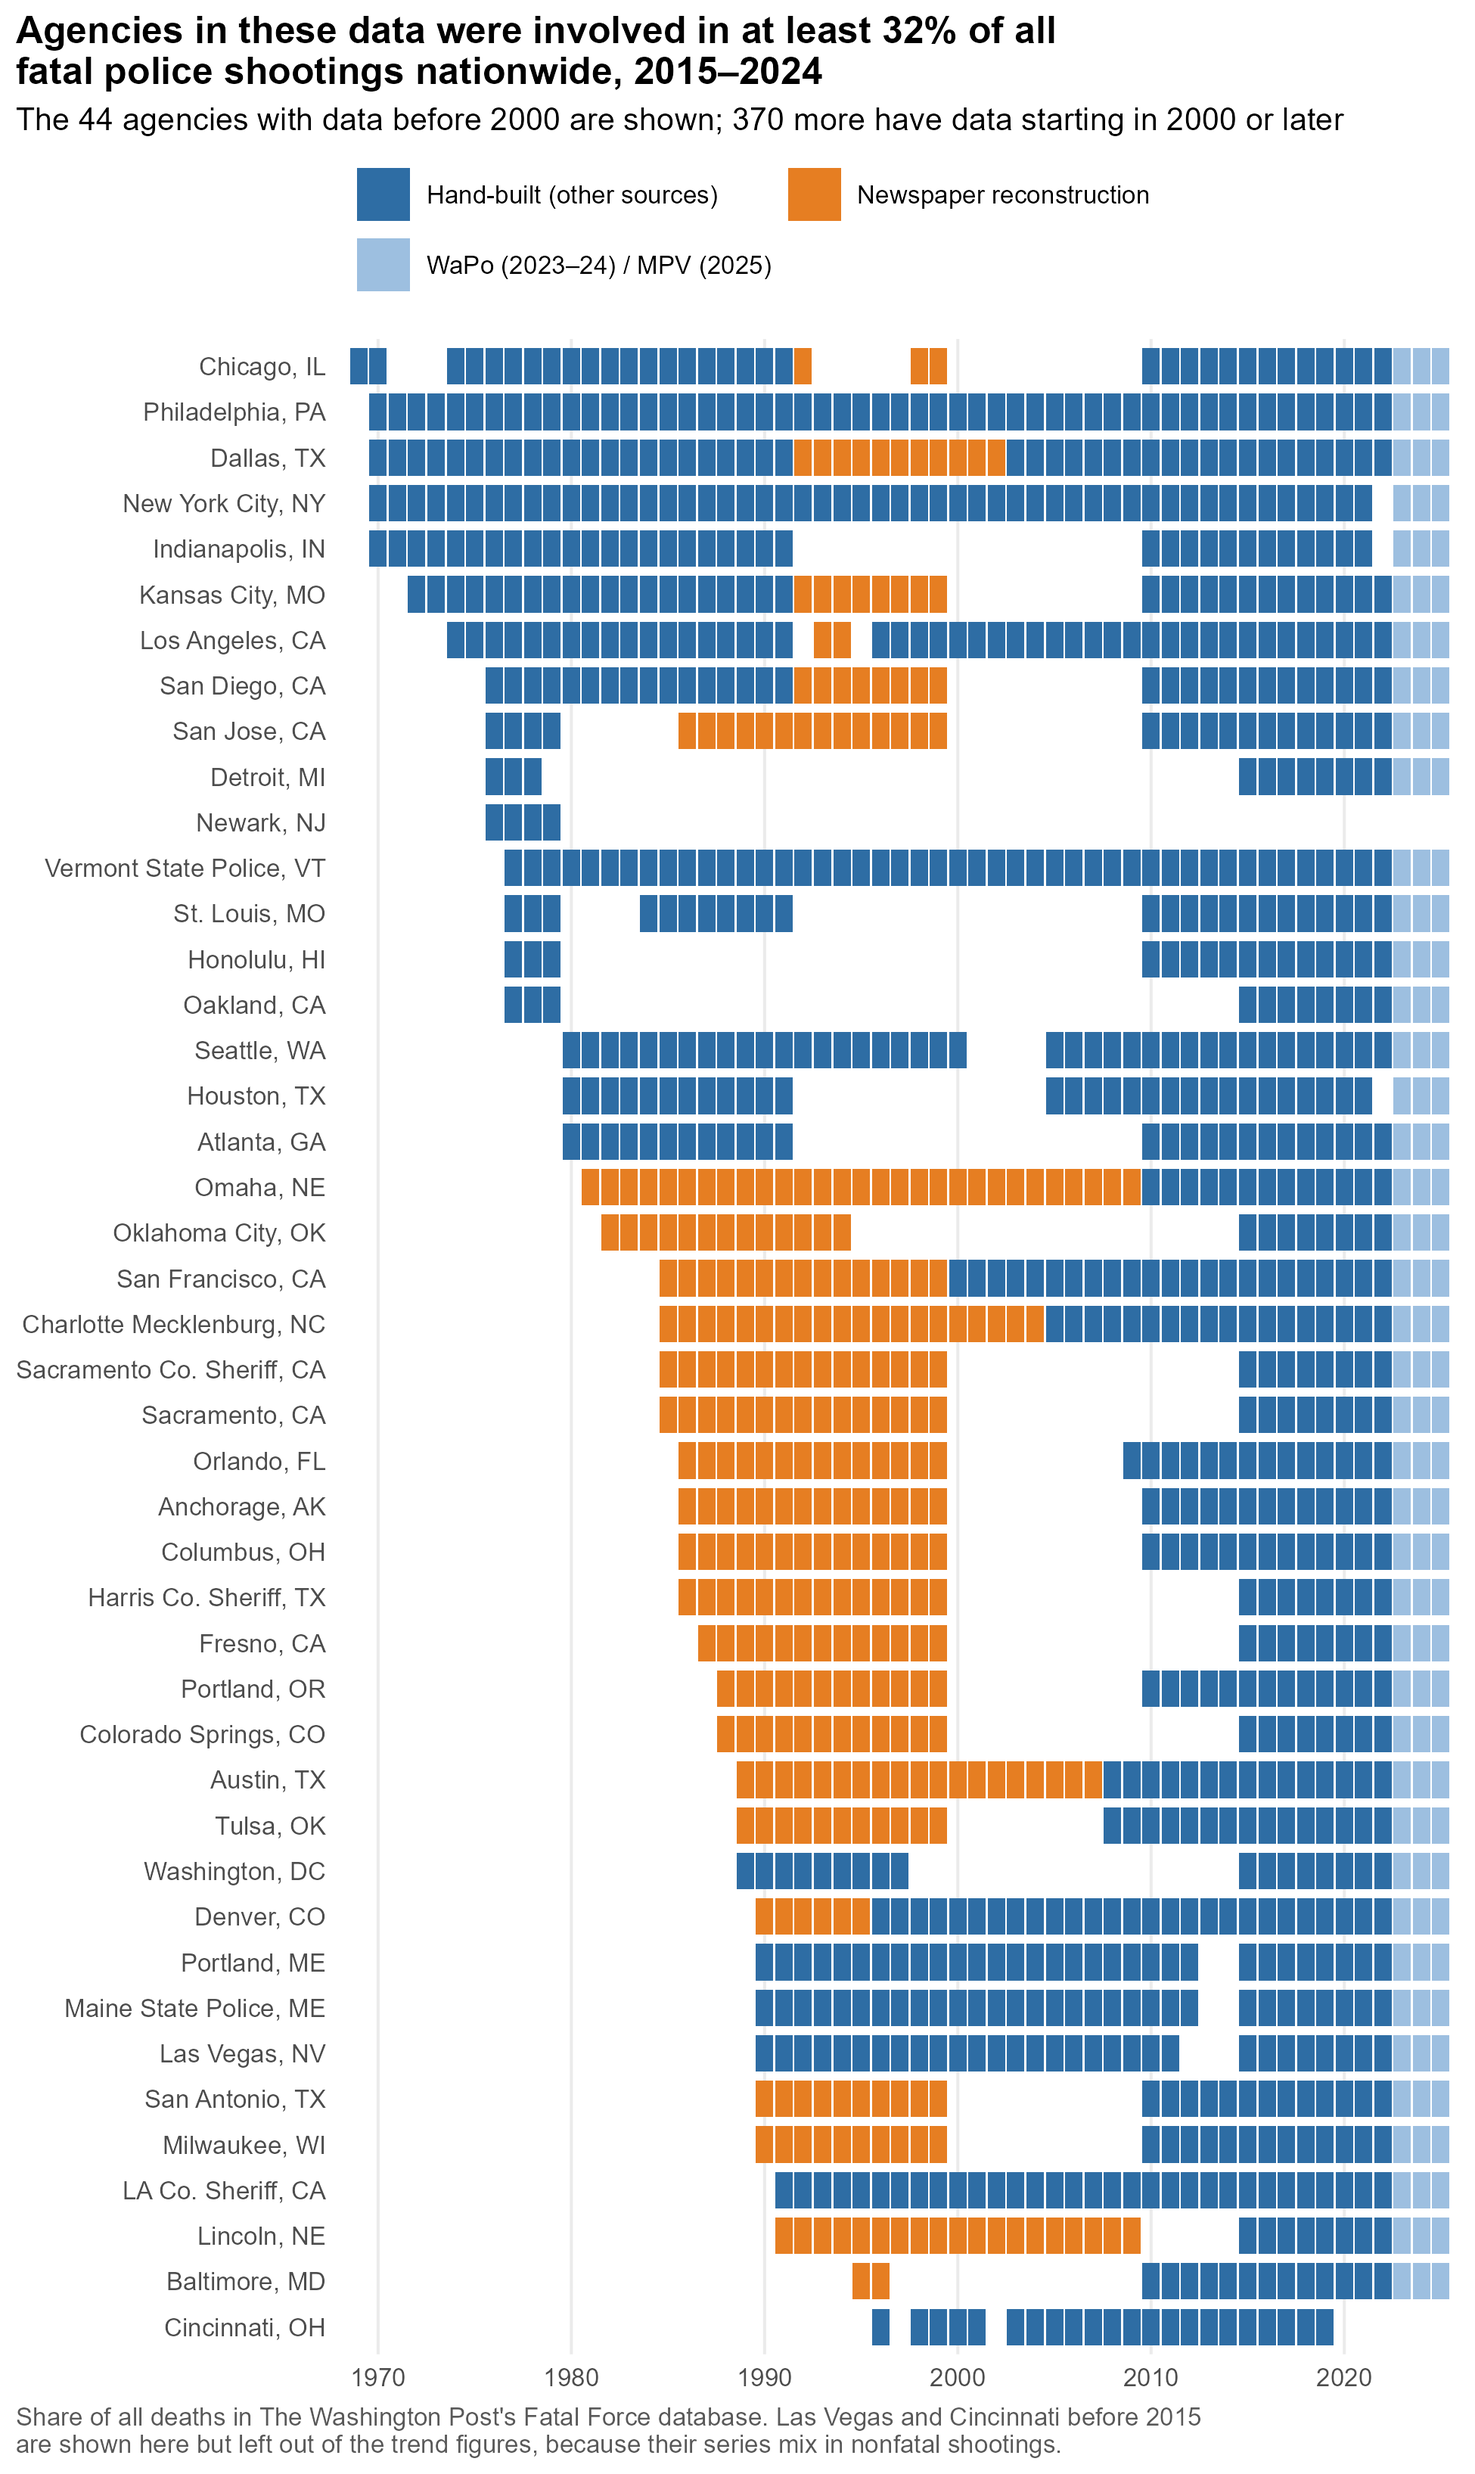
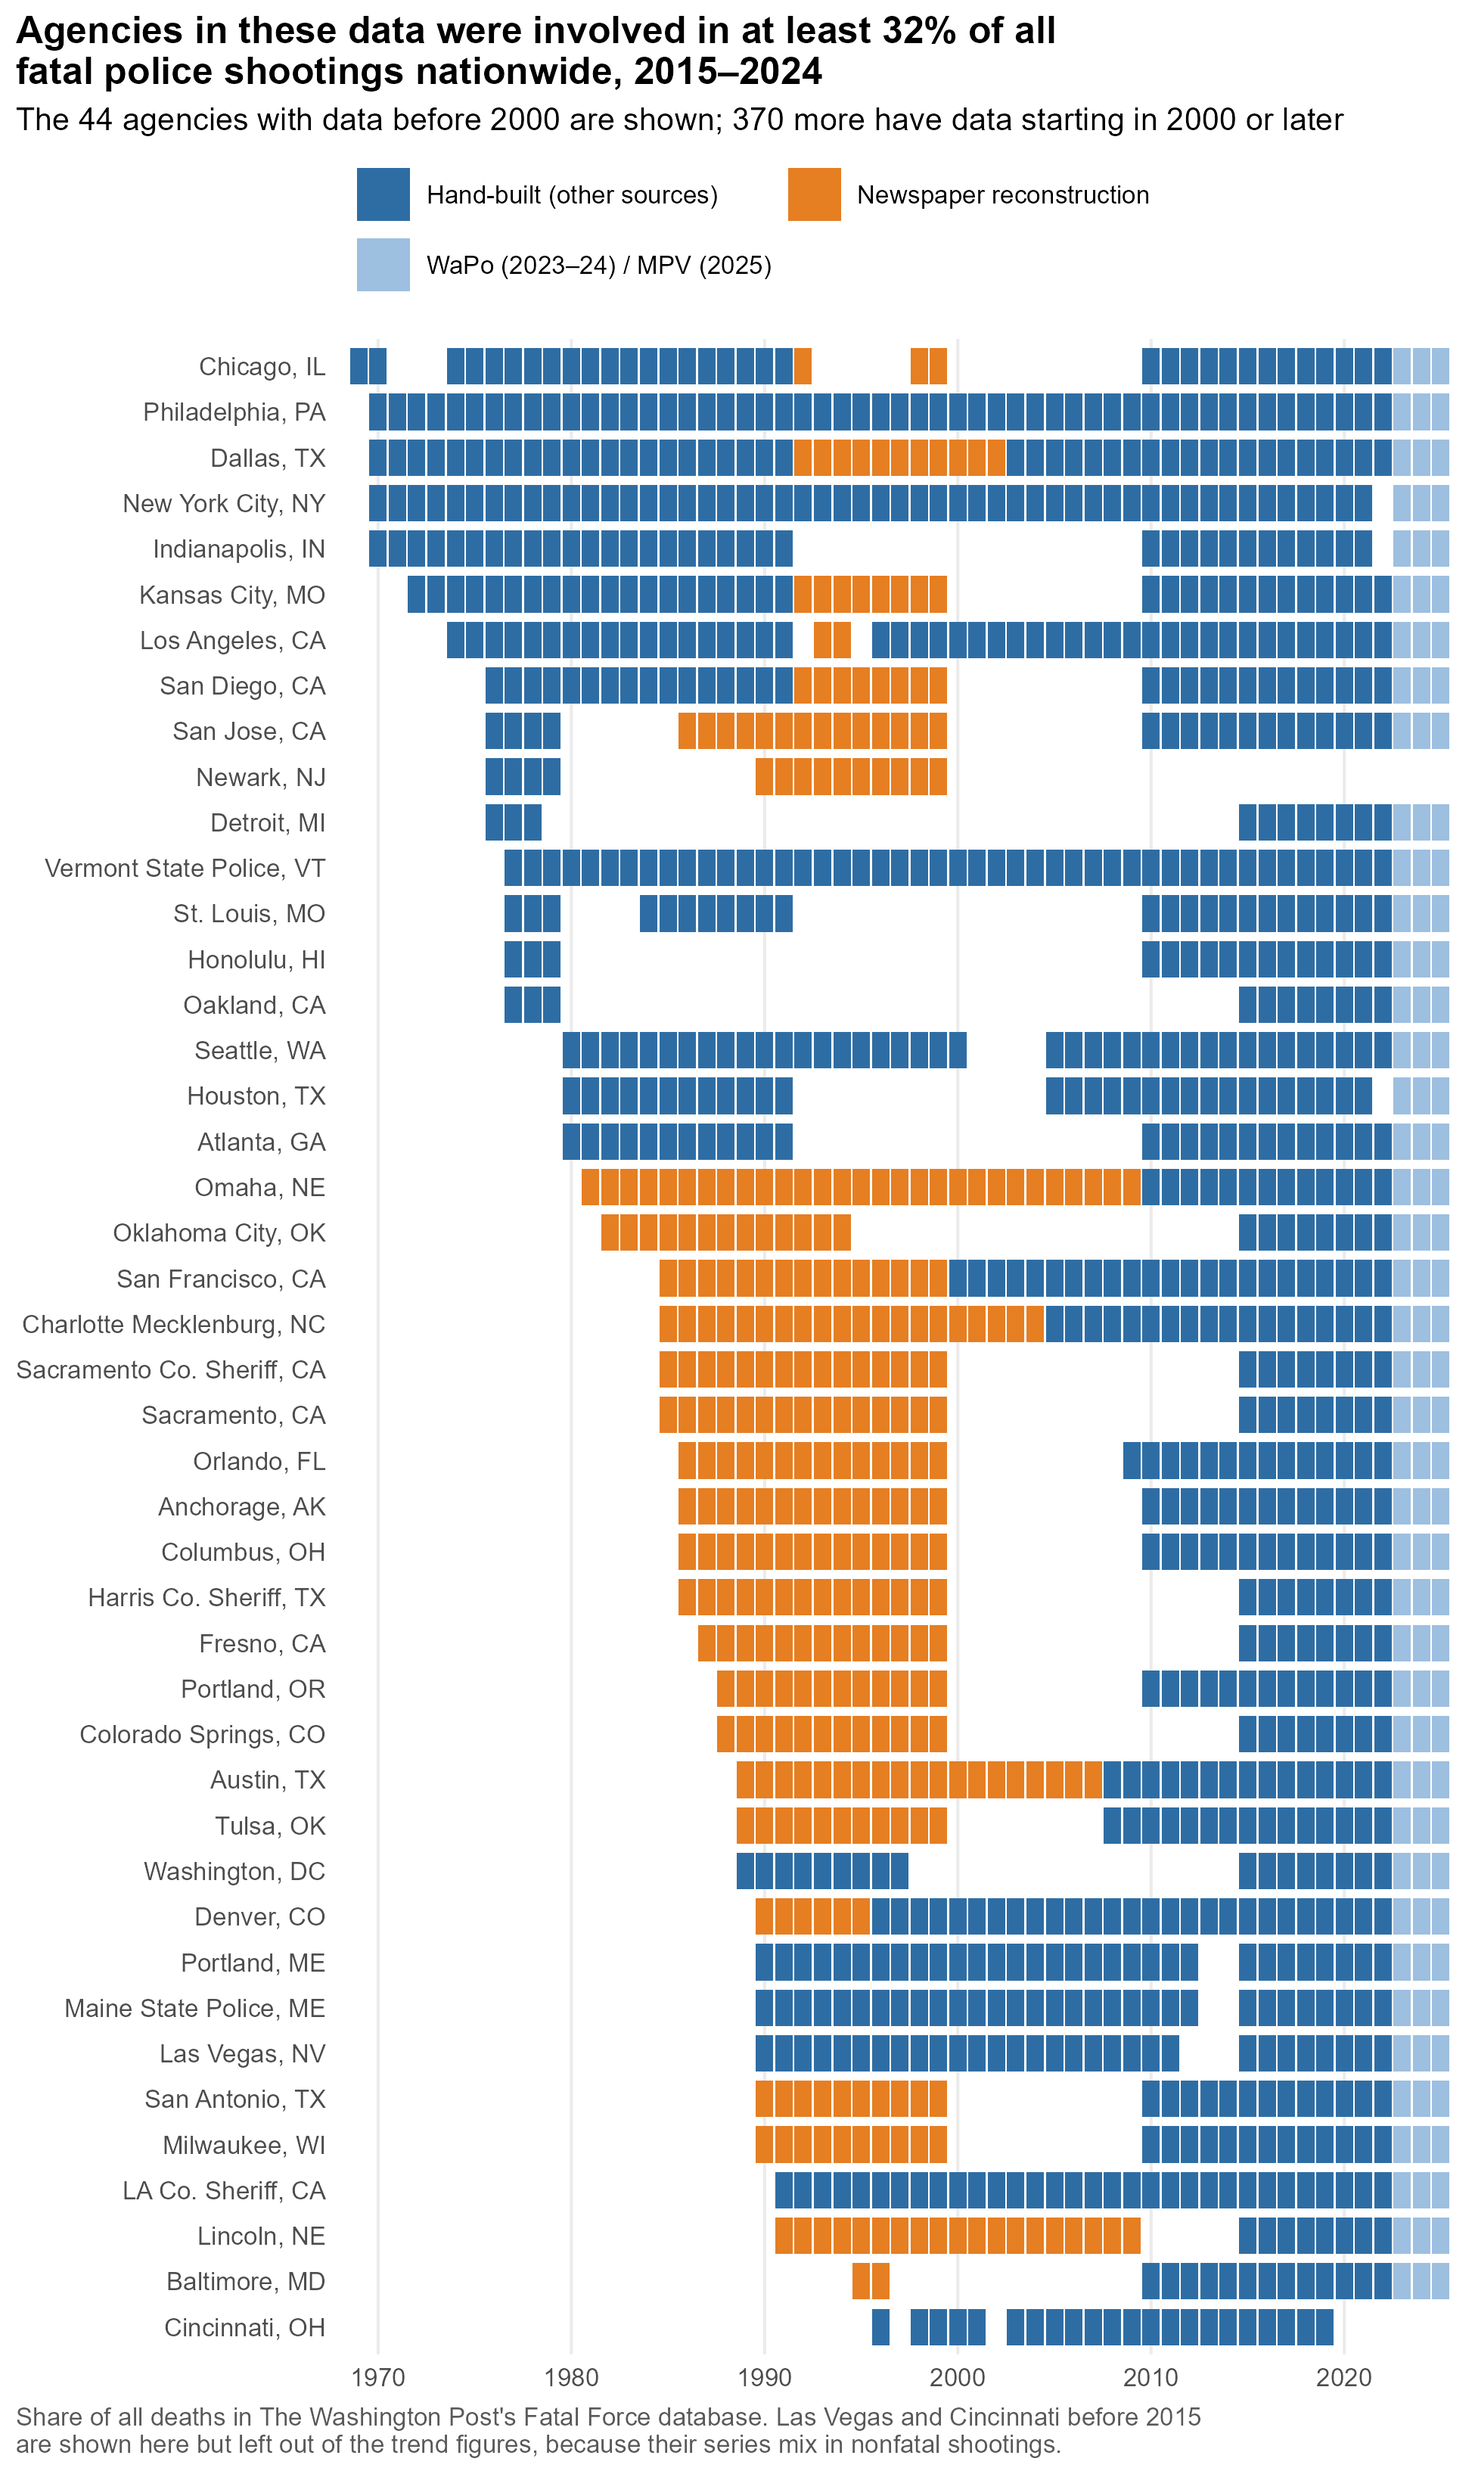
Add Newark PD (NJ) 1990-99 to n_nix (Star-Ledger reconstruction) (#37)
18 deaths (SHR 24, which includes off-duty killings). Case by case,
four channels; calibrated on 2004-05 against Fatal Encounters (about
85% recall). Newark has no hand-built counts after 2014, so it does
not enter the long panel; headline unchanged (35 agencies, 0.72).

diff --git a/README.md b/README.md
@@ -132,7 +132,7 @@ I decided, for now at least, to focus on fatal shootings, since they're more rel
 | [Springfield (MO) PD](https://www.springfieldmo.gov/3755/Officer-Involved-Shootings) | 2008–2022 | Springfield (MO) PD |
 | [Austin open data portal](https://data.austintexas.gov/Public-Safety/Officer-Involved-Shooting-2000-2014/63p6-iegi) | 2008–2014 (2000–07 replaced by the Statesman reconstruction) | Austin PD |
 | [Dallas open data portal](https://www.dallasopendata.com/Public-Safety/Dallas-Police-Officer-Involved-Shootings/4gmt-jyx2) | 2003–2022 | Dallas PD |
-| Local newspapers via NewsBank: see [Newspaper reconstructions](#newspaper-reconstructions) below | 1981–2009 | Omaha, Lincoln, Oklahoma City, Columbus, Denver, Tulsa, San Antonio, Sacramento PD, Sacramento Co. SD, Portland (OR), Austin, Harris Co. SO, Charlotte, Fresno, San Jose, Dallas, San Diego, Kansas City (MO), Chicago, LAPD (1993–94), Milwaukee, San Francisco, Colorado Springs, Orlando, Anchorage, Baltimore (1995–96) |
+| Local newspapers via NewsBank: see [Newspaper reconstructions](#newspaper-reconstructions) below | 1981–2009 | Omaha, Lincoln, Oklahoma City, Columbus, Denver, Tulsa, San Antonio, Sacramento PD, Sacramento Co. SD, Portland (OR), Austin, Harris Co. SO, Charlotte, Fresno, San Jose, Dallas, San Diego, Kansas City (MO), Chicago, LAPD (1993–94), Milwaukee, San Francisco, Colorado Springs, Orlando, Anchorage, Baltimore (1995–96), Newark |
 | Jacksonville Sheriff's Office, [*Police Involved Shootings*](https://web.archive.org/web/20150717050006/http://www.jaxsheriff.org/departments/sheriffs-office/docs/sheriff-john-rutherford/police-involved-shootings-final.aspx) (Jan. 2009; archived copy) | 2007–2008 | Jacksonville SO |
 | [Cincinnati open data portal](https://data.cincinnati-oh.gov/Safety/PDI-Police-Data-Initiative-Officer-Involved-Shooti/r6q4-muts) | 1996–2019 | Cincinnati PD |
 | [Vermont open data portal](https://data.vermont.gov/Public-Safety/Vermont-State-Police-Officer-Involved-Shootings-19/du86-kfnp) | 1977–2022 | Vermont State Police |
@@ -182,6 +182,7 @@ The method, a note on every agency, and the checks against each paper's own coun
 | Orlando PD | *Orlando Sentinel* | 1986–1999 | 6 | 1 |
 | Anchorage PD | *Anchorage Daily News* | 1986–1999 | 4 | 5 |
 | Baltimore PD | *The Sun* (Baltimore) | 1995–1996 | 21 | 21 |
+| Newark PD (NJ) | *The Star-Ledger* | 1990–1999 | 18 | 24 |
 
 
 ## Caveats

diff --git a/data/historical/README.md b/data/historical/README.md
@@ -42,3 +42,4 @@ The SHR column is the FBI's count of people killed by the agency's officers with
 | Orlando PD | *Orlando Sentinel* | 1986–1999 | 6 | 1 | Rebuilt case by case through five search channels (the archive starts in April 1985, so 1985 is not used). SHR filed only for 1986–87 and 1992–96, showing 1 death in those years against 3 here (it misses Rais in 1986 and Woolhouse in 1992). Leaves out a 1999 death by a DEA agent on a joint drug bust, a 1992 gunman the coroner found shot himself, and a 1996 restraint death. A floor: many zero years |
 | Anchorage PD | *Anchorage Daily News* | 1986–1999 | 4 | 5 | A small, selective archive (from October 1985, so 1985 is not used). A May 1998 story says the department had last used deadly force when it killed Terrance Cloyd in 1993, which covers 1994–97. Matches SHR in 13 of 14 years; SHR's 1997 death conflicts with that statement. 1986–92 rest on case searches alone |
 | Baltimore PD | *The Sun* (Baltimore) | 1995–1996 | 21 | 21 | Counts the paper printed (12 in 1995, 9 in 1996), not a case-by-case rebuild. A calibration run found the Sun's archive surfaces only about half of 1995's 12 deaths as individual stories, so case-built years (1990–94) would be far too low and are left out. Baltimore stays out of the long panel |
+| Newark PD (NJ) | *The Star-Ledger* | 1990–1999 | 18 | 24 | Rebuilt case by case (the archive starts May 1989, so 1989 is not used); no tally articles exist. Checked the method on 2004–05 against Fatal Encounters: it surfaced about 85% of on-duty deaths. SHR's higher total includes several off-duty killings, which are left out here, as are Housing Authority special police and neighboring departments. Counts the two 1991 van deaths in which Newark and Hillside officers fired together. Not in the long panel yet: Newark has no hand-built counts after 2014 |
